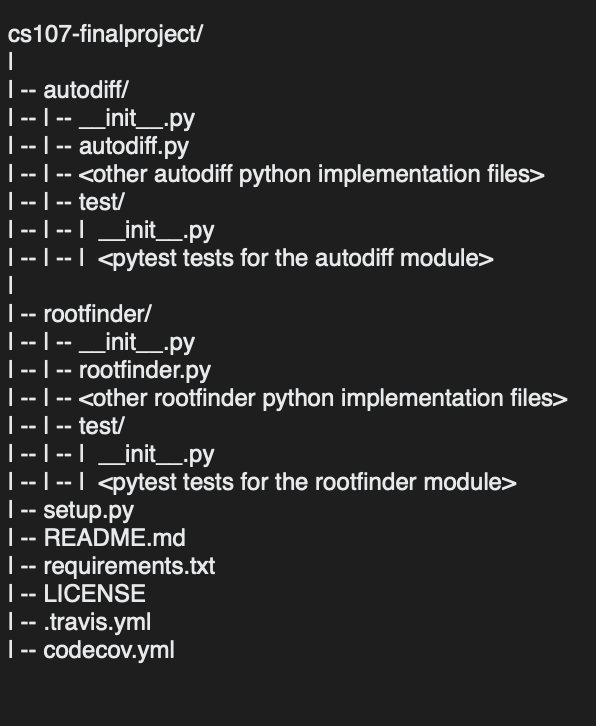
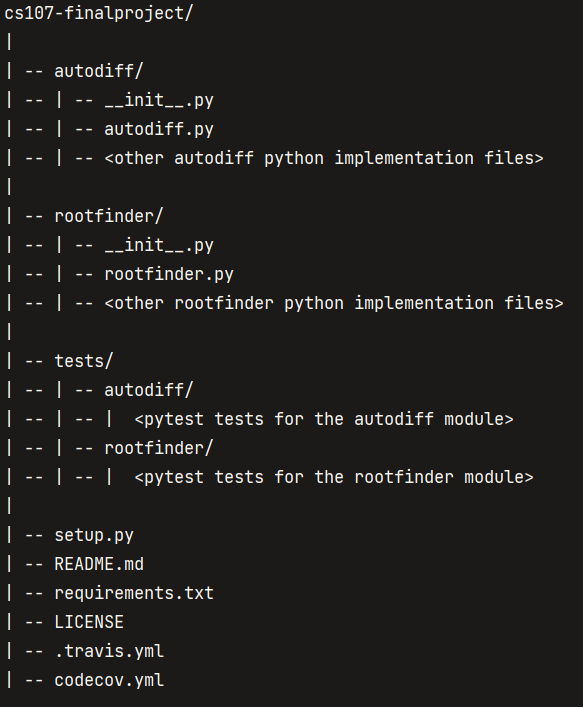
rewrote background section to use a simple example for illustration

Changed region(s): [[0.0, 0.0, 0.9571, 0.9958]]

diff --git a/docs/milestone1.md b/docs/milestone1.md
@@ -29,18 +29,19 @@ Rather than producing an expression for a derivative, automatic differentiation 
 
 There are two main versions of automatic differentiation: forward mode and reverse mode. In simple terms, forward mode applies the chain rule to basic operations in a forward primal trace, obtaining a derivative trace. Conversely, reverse mode does not compute derivatives simultaneously but requires two separate phases: forward and backward. During the forward phase, all intermediate variables are evaluated, and their values are stored in memory. Afterwards, during the backward phase, the derivatives are propagated backwards using the chain rule. This is also known as backpropagation.
 
-In a simple example model where[2]:
- 
-![](p2.png)
+In this project, we will be using forward mode. Forward mode is probably best understood through a simple example.  Consider the following simple polynomial with two inputs x1, x2, and one output:
 
-The graph structure of calculations, or the computation graph, would look like the below[2]: 
+![](p6.png).
 
-![](p3.png)
+The computation graph for this polynomial looks like the following (this was rendered using the wonderful Auto-eD tool [2]). 
 
-In applying the chain rule to our computation graph, we obtain the following[2]:
+![](p7.png)
 
-![](p4.png)
+To compute the derivative with respect to x0 and x1 we follow the computation graph and compute the intermediate derivatives along the way using the chain rule mentioned above.  The following table show how the derivates with respect to x0 and x1 evaluated at x0 = 2 and x1 = 3 are computed.
 
+![](p8.png)
+
+In the 'Derivative' column, we are computing the derivative of the elementary operation in the 'Operation' column and then evaluating it at the given numeric values.  By repeating this along the computation graph, we end up with our final derivatives.  Our library for this project will be using the same approach.
 
 ## How to Use Autodiff
 
@@ -49,8 +50,9 @@ A user will interact with the automatic differentiation functionality through th
 To install the package you can use git clone:
 
 ```
-git clone https://github.com/cs107-theteapeople/autodiff.git 
+git clone https://github.com/cs107-theteapeople/cs107-FinalProject.git 
 ```
+If allowed and supported for this project, we will also use PyPi to allow a user to install the library with pip. (We don't want to put something on PyPi that may not be suitable.)
 
 The general structure of usage will be as follows:
 
@@ -81,7 +83,7 @@ Evaluate the derivative:
 ad1.differentiate(x = 2, y = 3)
 ```
 
-This will return the derivative of this function with respect to x and with respect to y.  We will also provide options to allow users to specify arrays of input values by providing numpy arrays as inputs.
+This will return the derivative of this function with respect to x and with respect to y evaluated at the given points as a numpy array or scalar value.  We will also provide options to allow users to specify arrays of input values by providing numpy arrays as inputs.
 
 
 ## How to Use Rootfinder
@@ -105,12 +107,12 @@ Find the roots of our function:
 rf.findroots(func)
 ```
 
-This will return the roots of the supplied function using Newton’s method.
+This will return the roots of the supplied function using Newton’s method as a numpy array or scalar value.
 
 ## Software Organization
 #### Summary
 
-For our code structure, we follow the recommendations from the blog post by Jp Calderone[3] to structure a python project.  He recommends not using a ‘src’ directory, and placing tests within each module along with an appropriate __init__.py file.  Similarly, we also follow the second recommendations provided by https://docs.pytest.org/en/stable/goodpractices.html to place the tests within each module (in a ‘test’ subdirectory).  This structure is useful if we have a direct relation between tests and application modules and want to distribute them along with your application.
+For our code structure, we considered following the recommendations from the blog post by Jp Calderone[3] to structure a python project.  He recommends not using a ‘src’ directory, and placing tests within each module along with an appropriate __init__.py file.  This structure is useful if we have a direct relation between tests and application modules and want to distribute them along with your application.  However, in class, it was suggested to not place our tests within our source modules.  For this project, we will follow the structure outlined in class.
 
 Our project directory structure will be of the following form:  
 
@@ -126,10 +128,10 @@ The second module, rootfinder, is an application that uses autodiff to find the 
 
 #### Where will our test suite live?
 
-Per the recommendations above, our test suites (using pytest) will live within each module, autodiff, and rootfinder.  We will be using travis ci and codecov to monitor our test statuses and codecov to monitor our test coverage.
+Per the recommendations from class, our test suites (using pytest) will live within a tests directory, inside autodiff and rootfinder subdirectories.  We will be using pytest along with travis ci and codecov to monitor our test statuses and codecov to monitor our test coverage.
 
 #### How will you distribute your package (e.g. PyPI)?
-Since this project only consists of python sources and doesn't need any files to be built, installation will be done by simply cloning the repository as described above.  We encourage users to play around with the code and even submit pull requests.  Our focus will be on code readability and learning, and we hope to make the code as understandable as possible so that users will be encouraged to modify the code and try new techniques.
+Since this project only consists of python sources and doesn't need any files to be built, installation could be done by simply cloning the repository as described above.  We encourage users to play around with the code and even submit pull requests.  Our focus will be on code readability and learning, and we hope to make the code as understandable as possible so that users will be encouraged to modify the code and try new techniques.  As mentioned above, if appropriate, we will host our project on PyPI and allow users to install the software with pip.  
 
 #### How will you package your software? Will you use a framework? If so, which one and why? If not, why not?
 
@@ -143,11 +145,11 @@ Since we will be developing an application for our extension, we will speak with
 ## Implementation 
 ### Module methods
 
-A critical component of the **autodiff** module is the ability to define functions and input variables.  We use a model similar to sympy.  As mentioned in the ‘how to use autodiff’ section of this document, elementary functions will be defined in the autodiff module and these can be combined to make composite functions.  We make heavy use of operator overloading and implicit conversions to allow users to conveniently define their functions.  
+A critical component of the **autodiff** module is the ability to define functions and input variables.  We use a model similar to sympy.  As mentioned in the ‘how to use autodiff’ section of this document, elementary functions will be defined in the autodiff module and these can be combined to make composite functions.  We make heavy use of operator overloading to allow users to conveniently define their functions.  Elementary functions will be Python functions within the autodiff module that generate simple Function instances which are described below.
 
 ### Function class
 
-Our main class for building composite functions will be the Function class.  This will use operator overloading heavily to allow the user to build up composite functions.  The forward computation graph will be generated as the composite function is built (taking advantage of the Python parser and order of operations).  The utility function ad.var(<name>) is used to build a primitive function that is just a single input variable.  These variables have names associated with them.  Composite functions are built by combining these variables with operators and primitive functions.  We will likely be using python dictionaries to store the computation graph as a series of nodes and their children along with their operations.  
+Our main class for building composite functions will be the Function class.  This will use operator overloading heavily to allow the user to build up composite functions.  The forward computation graph will be generated as the composite function is built (taking advantage of the Python parser and order of operations).  The utility function ad.var(<name>) is used to build a primitive function that is just a single input variable.  These variables have names associated with them.  Composite functions are built by combining these variables with operators and primitive functions (created using helper functions in the autodiff module).  We will likely be using python dictionaries to store the computation graph as a series of nodes and their children along with their operations.  
 
 Here are some example ways for a user to define a composite function (an instance of the Function class, or a list of instances).  
 
@@ -202,7 +204,7 @@ Our goal with this project is to provide an automatic differentiation and rootfi
 
 1. Lange, R. (2019, September 2). Forward mode automatic differentiation &amp; dual numbers. Medium. Retrieved October 20, 2021, from https://towardsdatascience.com/forward-mode-automatic-differentiation-dual-numbers-8f47351064bf. 
 
-2. Kathuria, A. (2019, June 3). Getting started with Pytorch Part 1: Understanding how automatic differentiation works. Medium. Retrieved October 20, 2021, from https://towardsdatascience.com/getting-started-with-pytorch-part-1-understanding-how-automatic-differentiation-works-5008282073ec. 
+2. Lindsey Brown, Rachel Moon, and David Sondak IACS Harvard, https://autoed.herokuapp.com/
 
 3. Jp Calderone, 16:58:00, 2007-12-21, Filesystem structure of a python project. jcalderone. Retrieved October 20, 2021, from https://jcalderone.livejournal.com/39794.html. 
 
